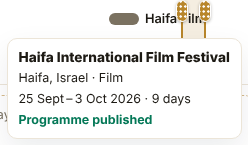
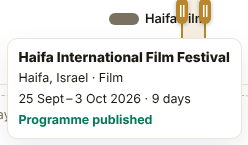
Draw the trip-edge grips as the planner's own grip pill
Claude-Session: https://claude.ai/code/session_01GjDQR2zHUeyKV4dM4mgpoP

Changed region(s): [[0.7903, 0.0, 0.875, 0.1655], [0.7056, 0.0, 0.7621, 0.1655]]

diff --git a/site/planNG/planNG.css b/site/planNG/planNG.css
@@ -1492,23 +1492,27 @@ body.festival-page {
   margin-left: -1px;
   background: var(--violet);
 }
+/* The planner's own grip (plan.css's .win-edge pill, upright here): two white
+   bars on a violet capsule, running along the line it grabs. */
 .tl-grip {
   position: absolute;
   top: 50%;
   left: 50%;
   width: 12px;
-  height: 22px;
+  height: 26px;
   transform: translate(-50%, -50%);
-  border-radius: 6px;
-  background:
-    radial-gradient(circle, var(--paper) 1.1px, transparent 1.4px) 1.5px 3px / 4.5px 5px,
-    var(--violet);
-  border: 1.5px solid var(--paper);
-  box-shadow: 0 1px 3px color-mix(in srgb, var(--ink) 30%, transparent);
+  border-radius: 7px;
+  background-color: var(--violet);
+  background-image: linear-gradient(#fff, #fff), linear-gradient(#fff, #fff);
+  background-repeat: no-repeat;
+  background-size: 1.5px 12px;
+  background-position: 4px center, 7.5px center;
+  box-shadow: 0 1px 4px rgba(16, 24, 40, 0.3);
+  transition: transform 0.12s ease;
 }
 .tl-handle:hover .tl-grip,
 .tl-handle:focus-visible .tl-grip {
-  background-color: var(--violet-dark);
+  transform: translate(-50%, -50%) scale(1.12);
 }
 .tl-handle:focus-visible {
   outline: none;
